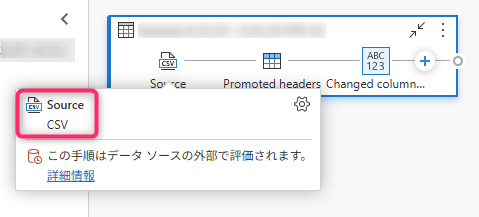
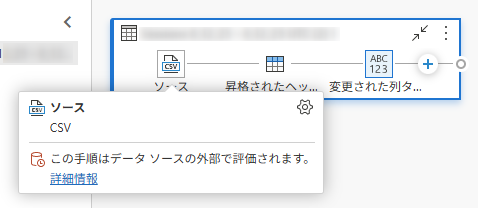
FBをもとに再度修正

diff --git a/articles/powerapps/helpful-information-for-dataflow-sr.md b/articles/powerapps/helpful-information-for-dataflow-sr.md
@@ -61,7 +61,6 @@ categories:
 2. 事象の発生環境
    - 機種
    - OS およびバージョン
-   - Web ブラウザ or Power Apps アプリ
    - ブラウザ種類 ( Microsoft Edge、Google Chrome、Firefox など)
    - プラグインや拡張機能の有無
 3. 特定の利用で発生する事象か
@@ -88,7 +87,7 @@ categories:
 
 ![](./helpful-information-for-dataflow-sr/dataflow-diagram.png) 
   
-以下のような表示画面が出てきましたら、Source にカーソルを合わせていただき、どのようなデータソースをご使用になっているかご教示ください。　
+以下のような表示画面が出てきましたら、「ソース」にカーソルを合わせていただき、どのようなデータソースをご使用になっているかご教示ください。　
 （下画像では例として CSV ファイルを使用しております。）
 
 ![](./helpful-information-for-dataflow-sr/dataflow-datasource.png) 
